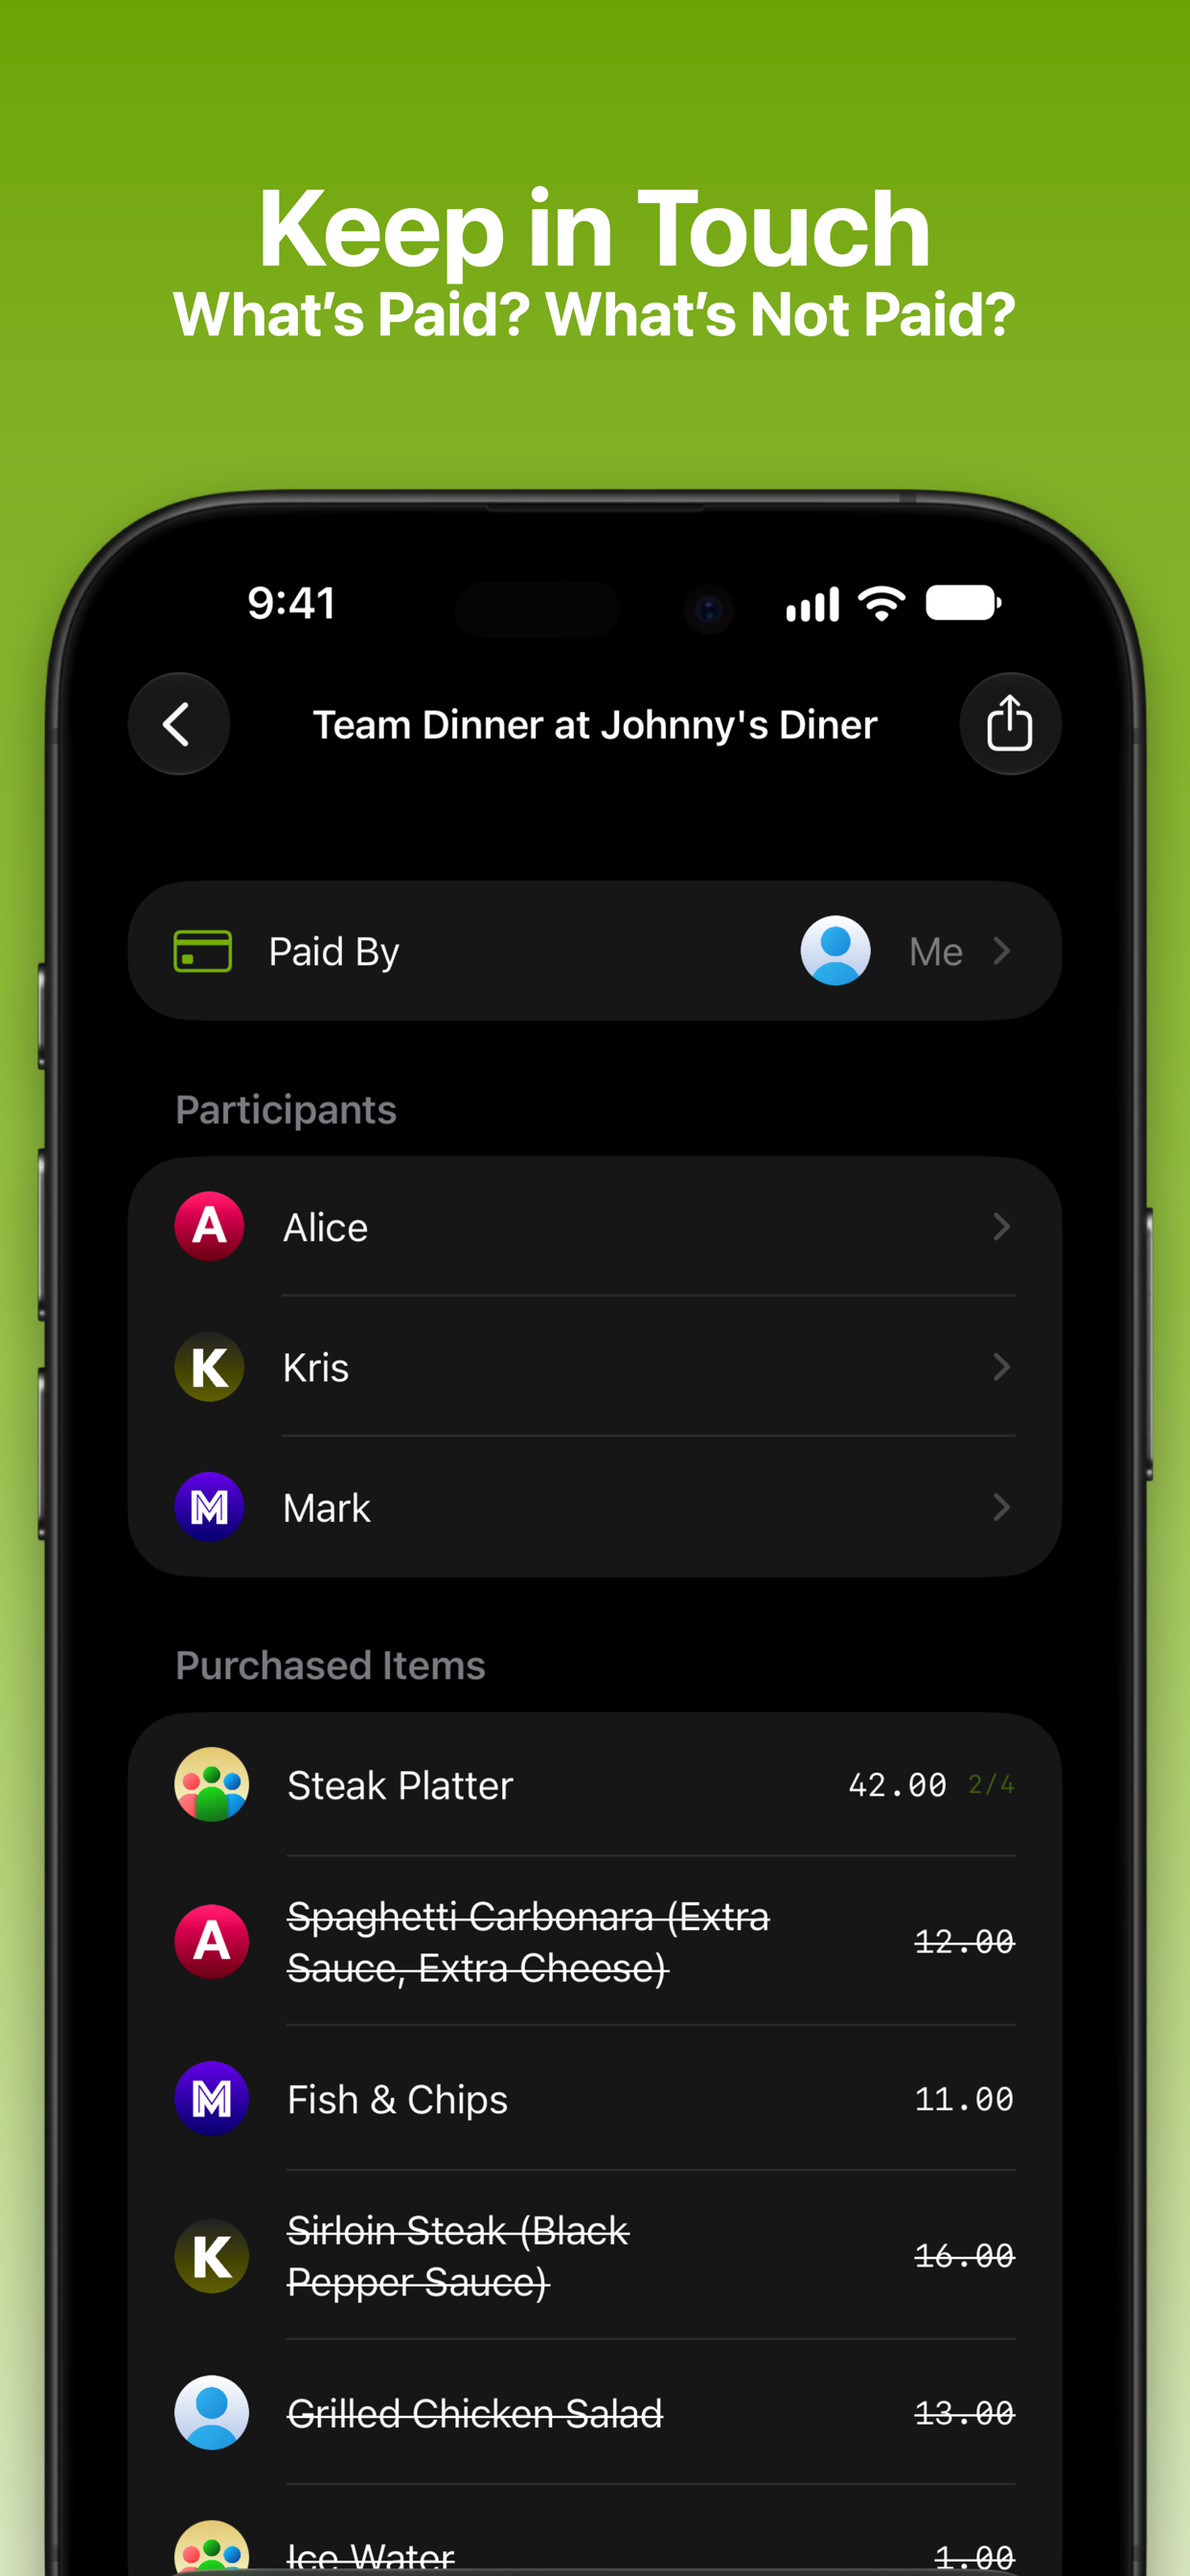
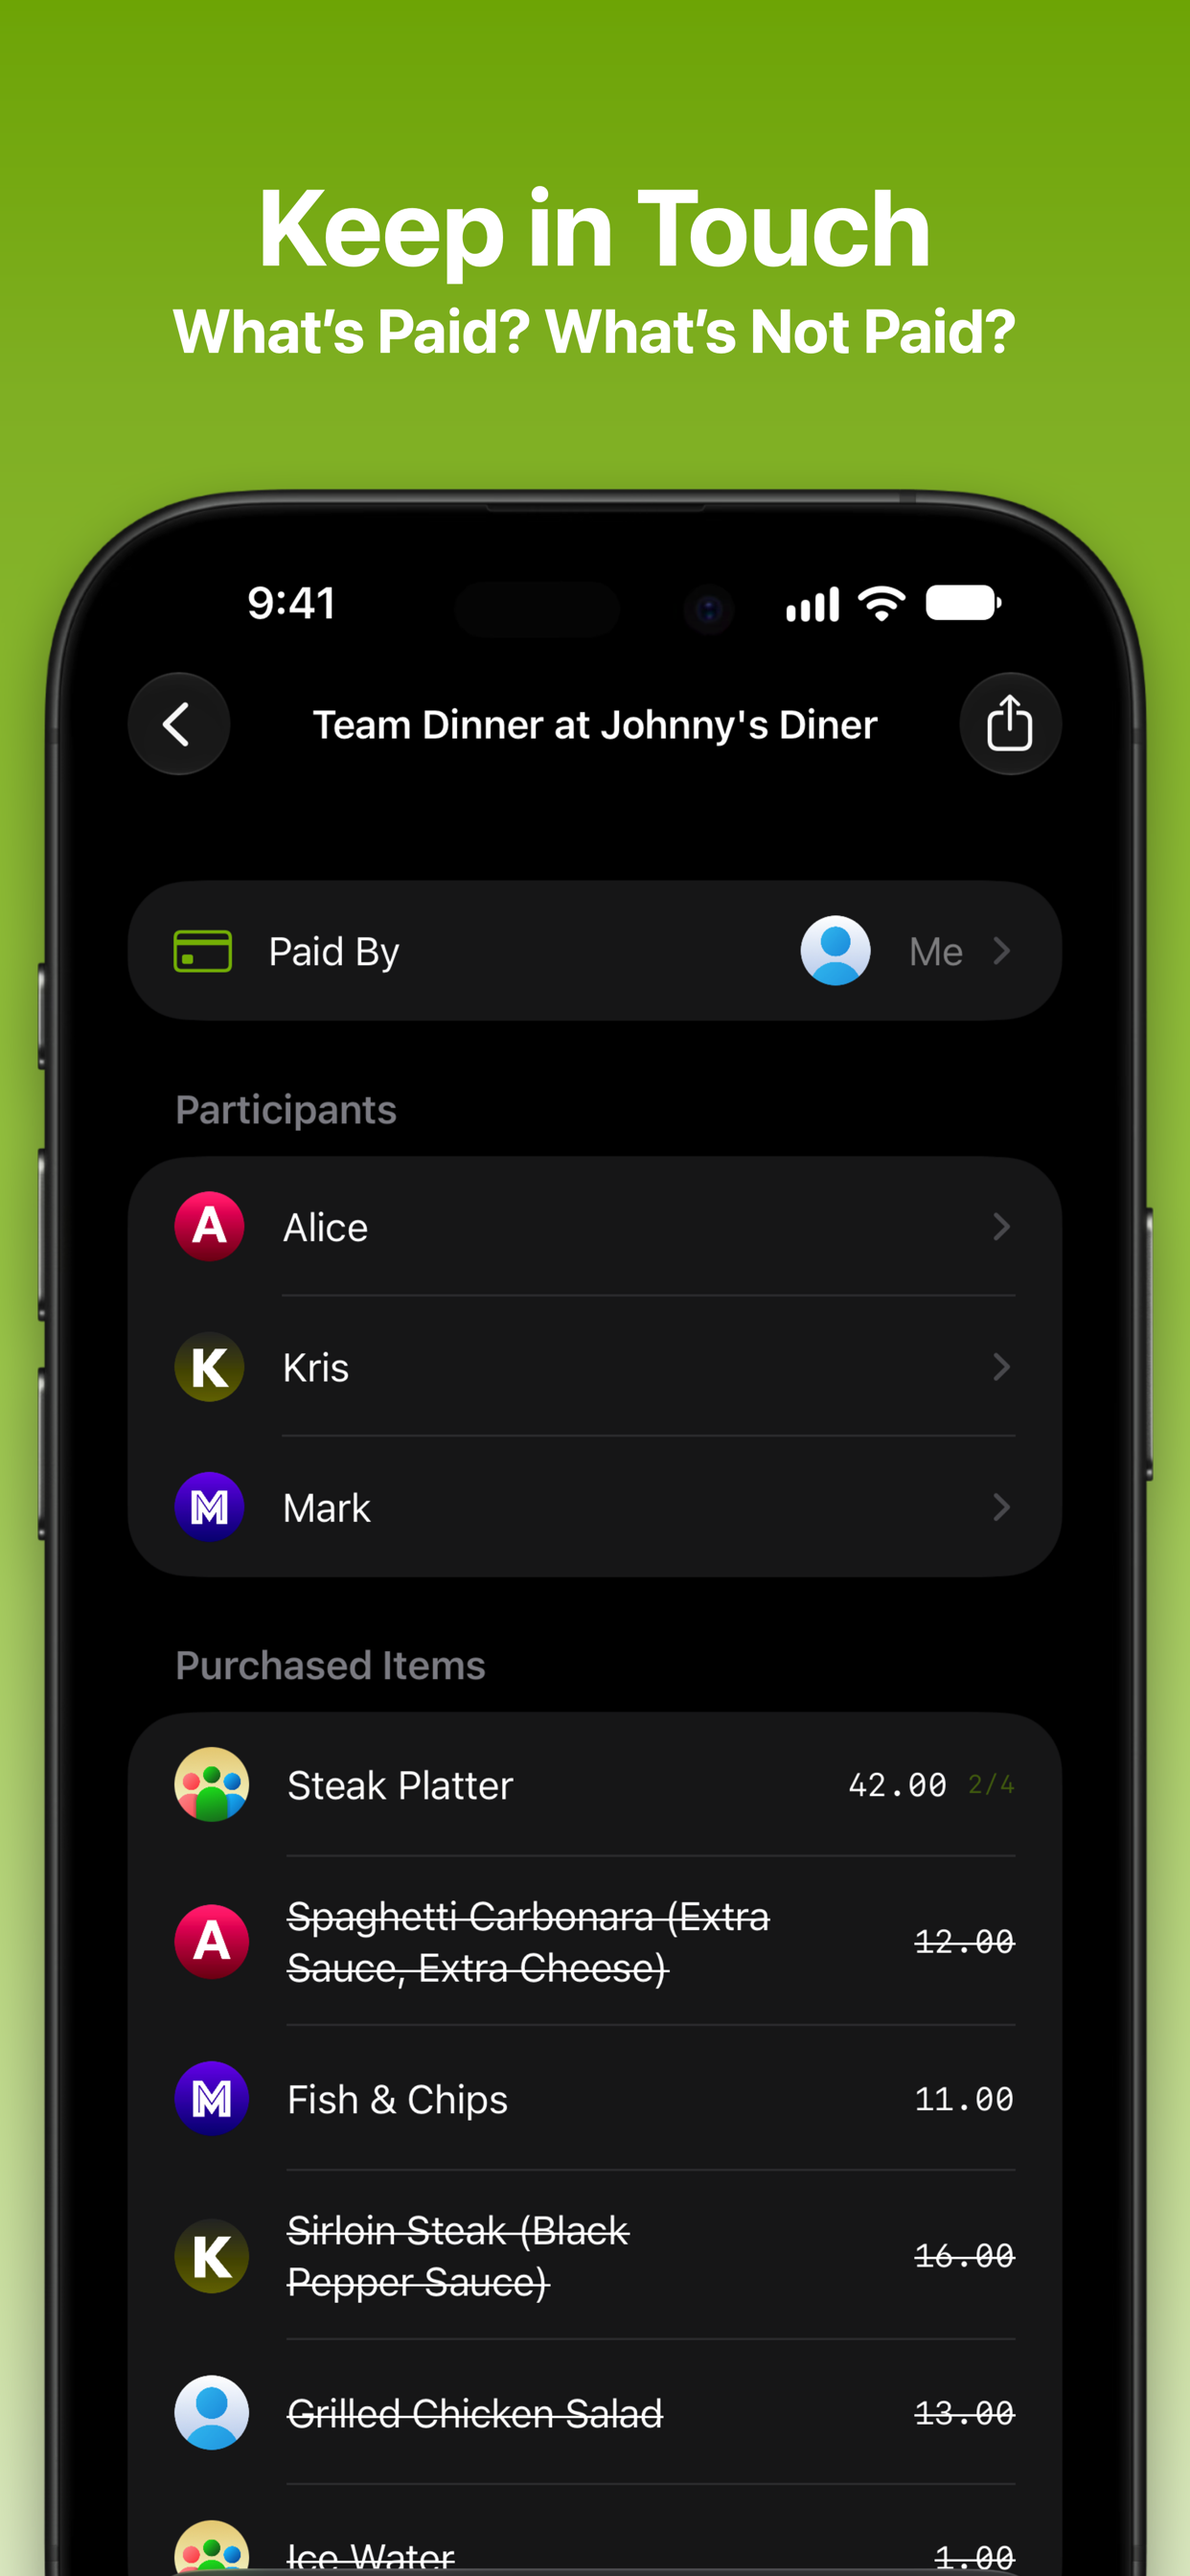
Space out screenshot title and subtitle

Changed region(s): [[0.153, 0.0938, 0.8567, 0.1562]]

diff --git a/Assets/App Store/compose.swift b/Assets/App Store/compose.swift
@@ -293,7 +293,7 @@ func compose(_ shot: Screenshot, language: String) -> Result {
     let header = Line(copy.header, size: sizes.header, weight: .bold)
     let caption = Line(copy.caption, size: sizes.caption, weight: .bold)
     header.draw(baseline: 277)
-    caption.draw(baseline: 350)
+    caption.draw(baseline: 368)
 
     switch shot.layout {
     case .single:
